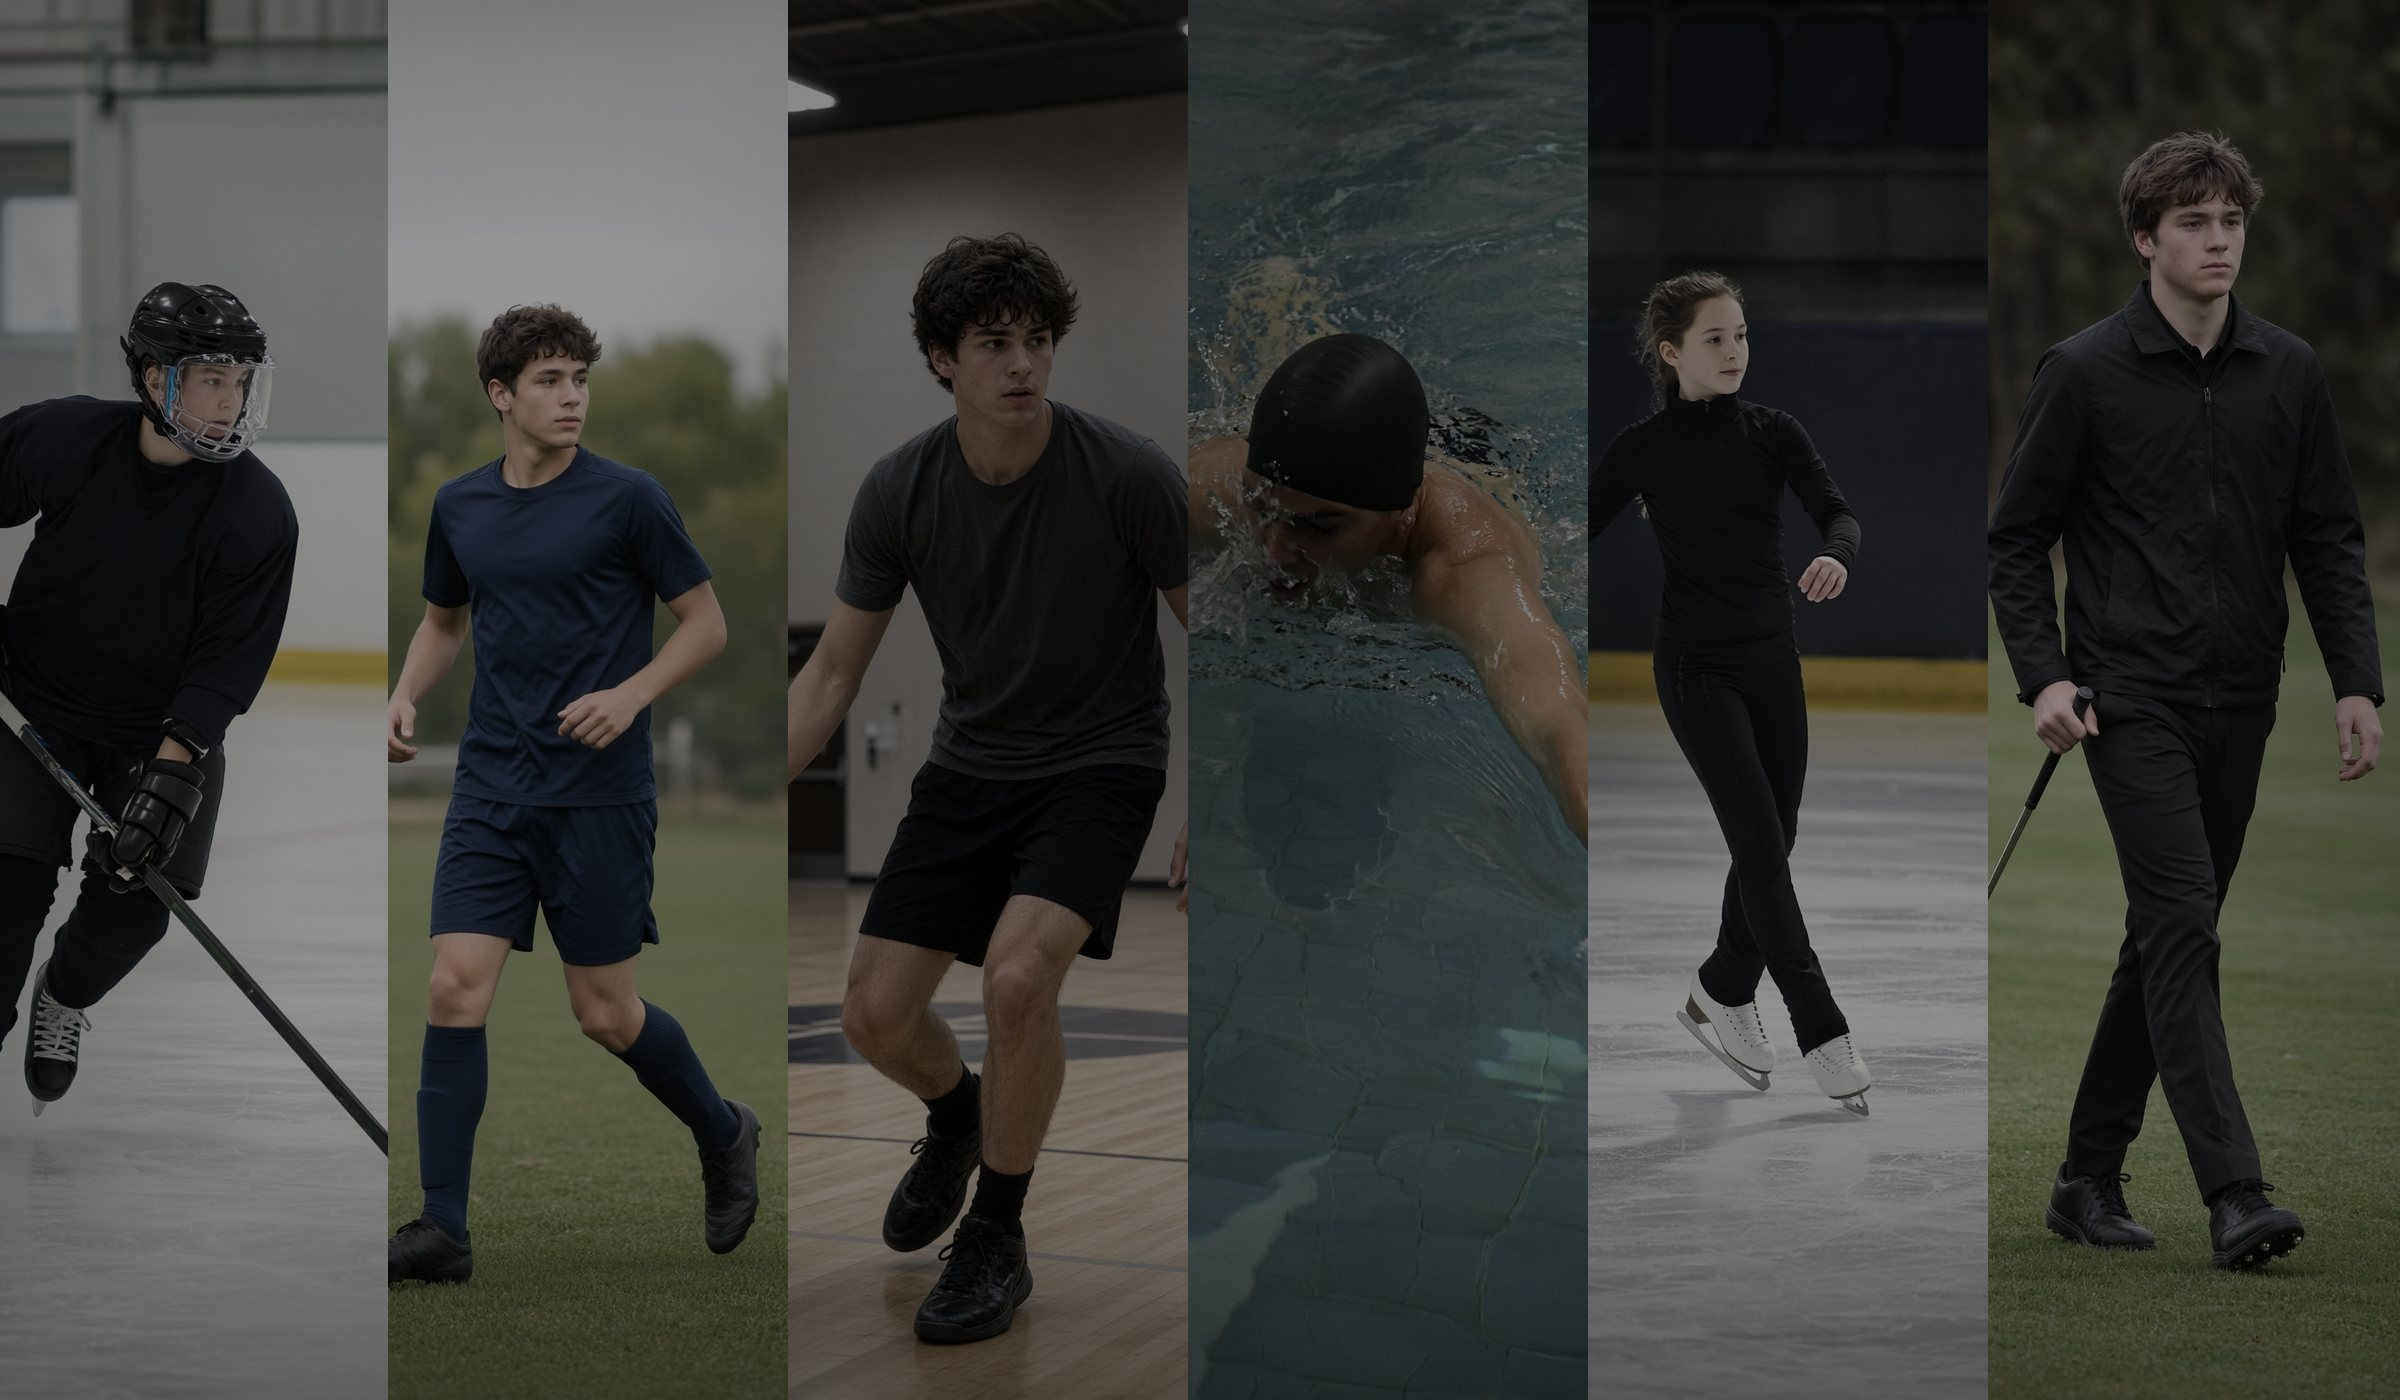
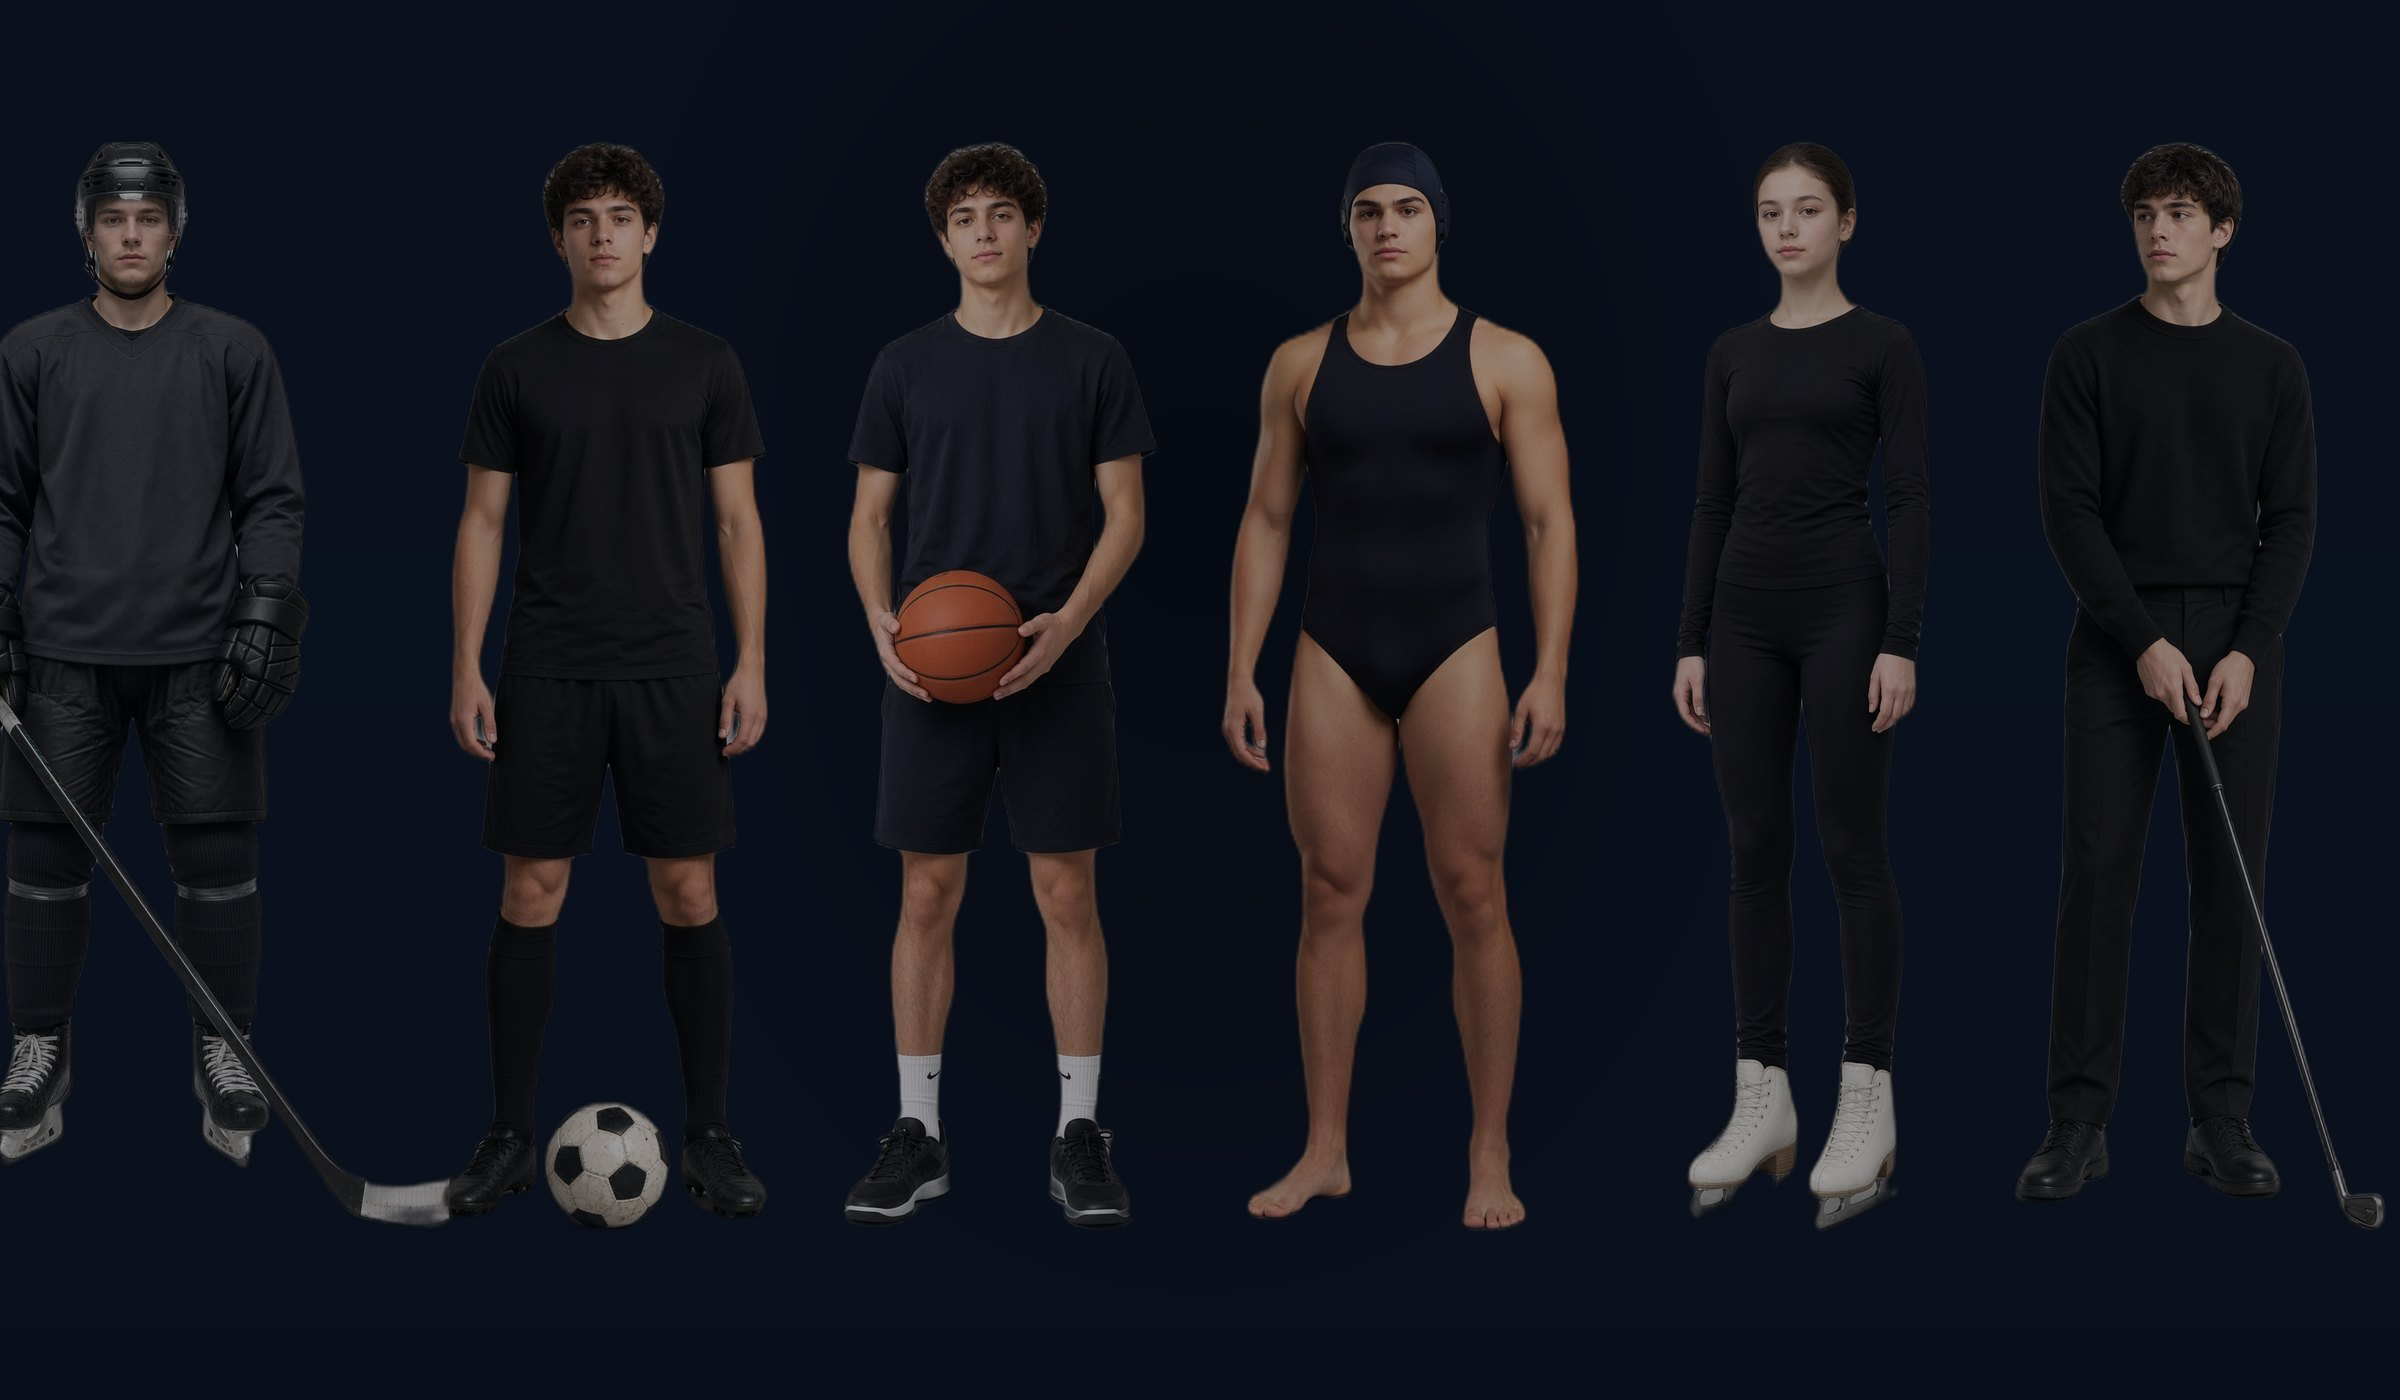
Put equal athletes on one continuous homepage background
The six figures are cut out at the same height so the panels no longer show.

diff --git a/index.html b/index.html
@@ -69,7 +69,7 @@ nav a.active::after{left:8%;right:8%;}
 /* HERO */
 .hero{position:relative;min-height:92vh;display:flex;align-items:center;justify-content:center;overflow:hidden;padding:2rem 0;}
 #heroCanvas{position:absolute;inset:0;z-index:0;width:100%;height:100%;}
-.hero-bg{position:absolute;inset:0;z-index:0;background:linear-gradient(180deg,rgba(8,12,20,.18),rgba(8,12,20,.28) 48%,rgba(8,12,20,.72)),url("https://raw.githubusercontent.com/mrvvv710/LeagueInterSelectPro/main/assets/hero-athletes.jpg?v=2") center/cover no-repeat;}
+.hero-bg{position:absolute;inset:0;z-index:0;background:linear-gradient(180deg,rgba(8,12,20,.18),rgba(8,12,20,.28) 48%,rgba(8,12,20,.72)),url("https://raw.githubusercontent.com/mrvvv710/LeagueInterSelectPro/main/assets/hero-athletes.jpg?v=3") center/cover no-repeat;}
 .hc2{position:relative;z-index:2;text-align:center;padding:2rem;}
 .hl{width:195px;height:195px;object-fit:contain;object-position:center center;background:transparent;padding:16px;border-radius:50%;border:2px solid rgba(232,196,138,.9);box-shadow:0 0 0 7px rgba(18,28,44,.92),0 0 0 8px rgba(176,198,220,.5),0 16px 36px rgba(0,0,0,.35);margin-bottom:1.5rem;animation:logoFloat 5.5s ease-in-out infinite;}@keyframes logoFloat{0%,100%{transform:translateY(0)}50%{transform:translateY(-8px)}}
 @keyframes float{0%,100%{transform:translateY(0);box-shadow:0 0 60px rgba(201,149,106,.5)}50%{transform:translateY(-12px);box-shadow:0 0 90px rgba(201,149,106,.7)}}
